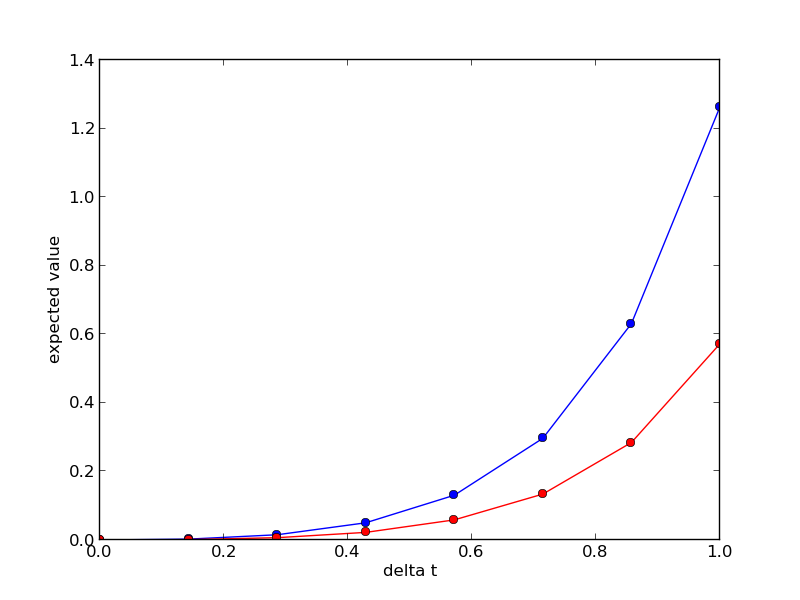
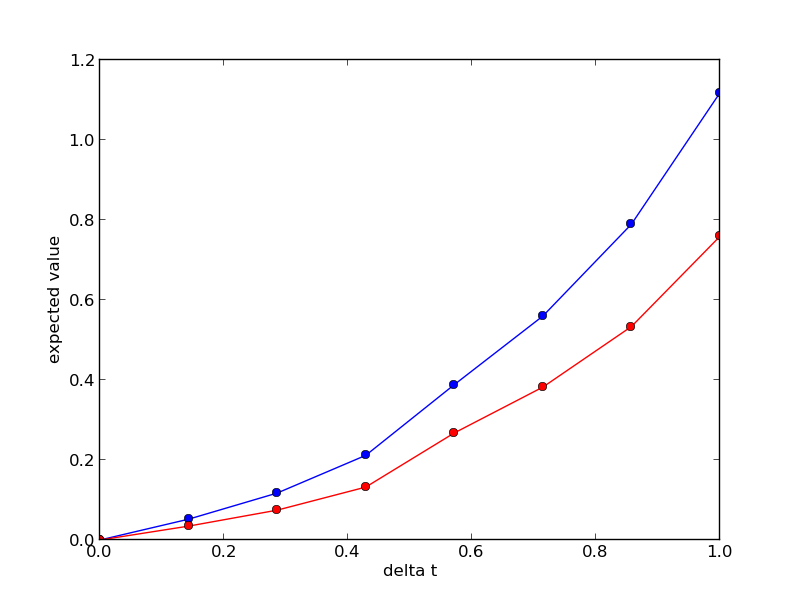
persisting rv

diff --git a/hw7/ques2.py b/hw7/ques2.py
@@ -5,7 +5,7 @@ import pylab
 @author: Ishola Babtunde
 '''
 #exact solution
-def exactsde(x_0, t_0, t_f, dt, a, b):
+def exactsde(x_0, t_0, t_f, dt, a, b, ervs):
 	t = linspace(t_0,t_f,1/dt)
 	n = t.shape[0]
 	sqrt_dt = sqrt(dt)
@@ -15,13 +15,13 @@ def exactsde(x_0, t_0, t_f, dt, a, b):
 	n_t_list = []
 	n_t_list.append(x_0)
 	for i in range(int(1/dt)-1):
-		b_t[i+1] = b_t[i] + sqrt_dt*random.normal(0, dt)
+		b_t[i+1] = b_t[i] + sqrt_dt*ervs[i]
 		n_t[i+1] = n_t[0]*exp((a-0.5*b**2)*t[i+1] + b*b_t[i])
 		n_t_list.append(n_t[i+1])
 	return n_t_list
 
 #euler solution
-def eulersde(x_0, t_0, t_f, dt, f, g):
+def eulersde(x_0, t_0, t_f, dt, f, g, ervs):
 	t = linspace(t_0,t_f,1/dt)
 	n = t.shape[0]
 	sqrt_dt = sqrt(dt)
@@ -30,13 +30,13 @@ def eulersde(x_0, t_0, t_f, dt, f, g):
 	x_t_list = []
 	x_t_list.append(x_t[0])
 	for i in range(int(1/dt)-1):
-		rand_var = random.normal(0, dt)
+		rand_var = ervs[i]
 		x_t[i+1] = x_t[i] + f*x_t[i]*dt + g*x_t[i]*rand_var*sqrt_dt
 		x_t_list.append(x_t[i+1])
 	return x_t_list
 
 #huen solution
-def huensde(x_0, t_0, t_f, dt, a, b):
+def huensde(x_0, t_0, t_f, dt, a, b, ervs):
 	t = linspace(t_0, t_f, 1/dt)
 	n = t.shape[0]
 	sdt = sqrt(dt)
@@ -46,14 +46,20 @@ def huensde(x_0, t_0, t_f, dt, a, b):
 	x_list.append(x_0)
 	for i in range(1, int(1/dt)):
 		x_n = x[i-1]
-		w_t = random.normal(0, dt)*sdt
+		w_t = ervs[i-1]*sdt
 		x_tilde = x_n+(a*x_n)* dt + (b*x_n) * w_t
 		x_t = x_n+(0.5)*((a*x_n)+(a*x_tilde)) * dt + (
 				(0.5)*((b*x_n)+(b*x_tilde))) * w_t
 		x[i] = x_t
 		x_list.append(x[i])
 	return x_list
-
+	
+def rand_exp(dt):
+	erv = zeros((int(1/dt)-1))
+	for i in range(size(erv)):
+		erv[i] = random.normal(0, dt)
+	return erv
+	
 def run():
 	dts = [2**-3, 2**-4, 2**-5, 2**-6]
 	n = 100
@@ -63,13 +69,15 @@ def run():
 		euler = []
 		huen = []
 		exact = []
+		#use same rv for each method
+		erv = rand_exp(dts[j])
 		for i in range(n):
 			#append the array returned by the euler algorithm
-			euler.append(eulersde(1,0,1,dts[j],1.5,0.1))
+			euler.append(eulersde(1,0,1,dts[j],1.5,0.1, erv))
 			#append the array returned by the huen algorithm
-			huen.append(huensde(1,0,1,dts[j],1.5,0.1))
+			huen.append(huensde(1,0,1,dts[j],1.5,0.1, erv))
 			#append the array returned by the exact algorithm
-			exact.append(exactsde(1,0,1,dts[j],1.5,0.1))
+			exact.append(exactsde(1,0,1,dts[j],1.5,0.1, erv))
 
 		#average the values returned from each iteration
 		euler_mean = mean(euler, axis=0)
@@ -77,8 +85,8 @@ def run():
 		exact_mean = mean(exact, axis=0)
 		
 		#estimate the error-squared	
-		euler_err = (euler_mean-exact_mean)**2
-		huen_err = (huen_mean-exact_mean)**2
+		euler_err = abs(euler_mean-exact_mean)#**2
+		huen_err = abs(huen_mean-exact_mean)#**2
 		
 		#plot euler error over huen error for each value of delta t
 		plotxyz(linspace(0,1,1/dts[j]), euler_err, huen_err, 'b','r', 'euler-huen dt=2^-'+str(j+3), 0)
